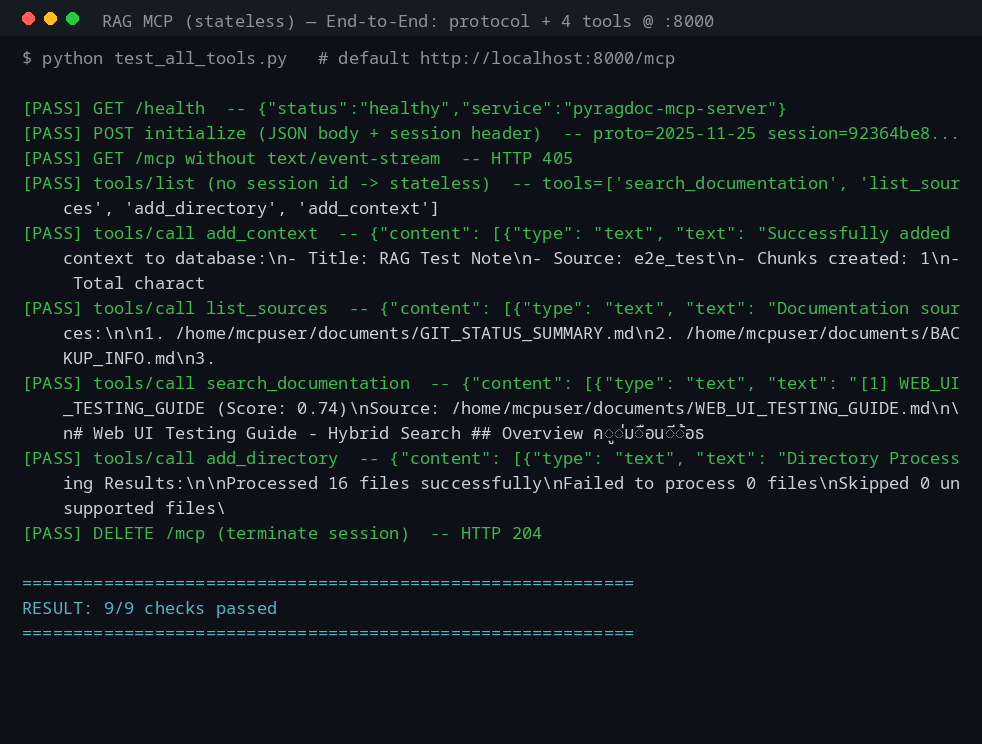
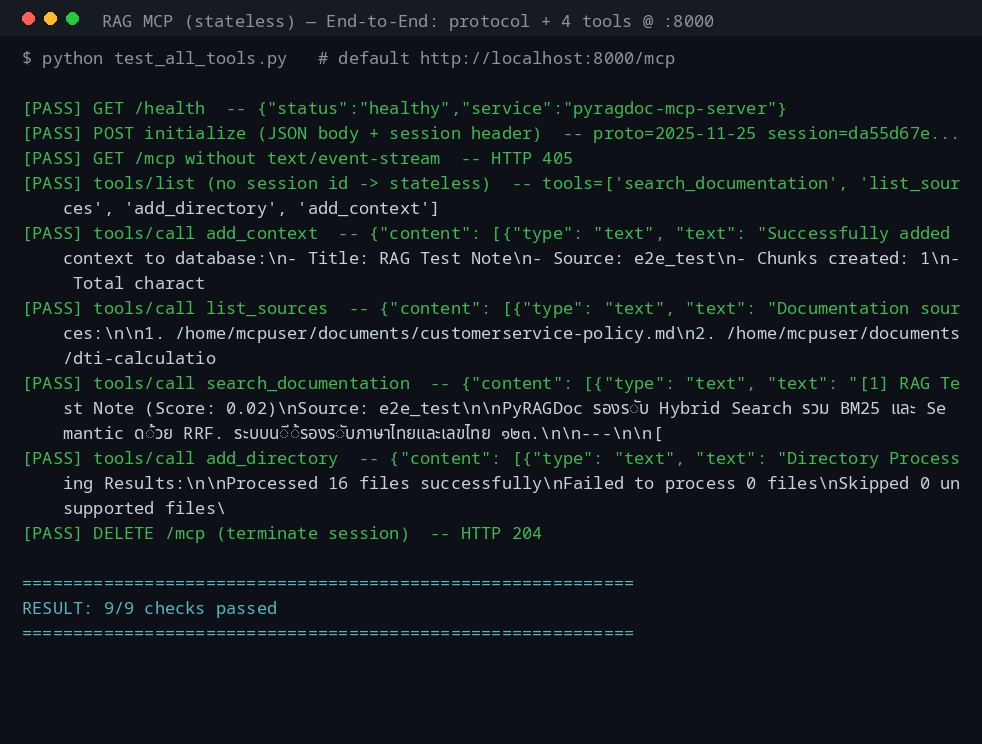
feat(streamablehttp): wire hybrid search (BM25 + Semantic + RRF) at startup
Port the hybrid-search init from v3 main.py (STDIO) into this Streamable HTTP
main.py. Previously initialize_services() was called with only 2 args, so
SearchOrchestrator was None and every mode=hybrid request silently fell back to
semantic-only (matching v3 main_streamable.py behavior).

Now startup constructs ThaiTokenizer + BM25Retriever + RRFCombiner +
SearchOrchestrator(default_mode=hybrid) and builds the BM25 index from existing
Qdrant docs. Verified via logs: BM25 indexed 903 docs at startup; a hybrid query
logs 'BM25 search returned 6 ... Hybrid search returned 3 (BM25: 6, Semantic: 6)'
proving both dense and sparse run and fuse via RRF. e2e suite still 9/9.

Added test_captures/05_hybrid_dense_sparse.png as proof.

diff --git a/rag-mcp-server-streamablehttp/main.py b/rag-mcp-server-streamablehttp/main.py
@@ -84,12 +84,116 @@ async def initialize_rag_services():
         storage_service.vector_size = vector_size
         
         await storage_service.initialize()
-        initialize_services(embedding_service, storage_service)
+        
+        # NEW: Initialize hybrid search components
+        logger.info("Initializing hybrid search components...")
+        from pyragdoc.utils.thai_tokenizer import ThaiTokenizer
+        from pyragdoc.core.bm25 import BM25Retriever
+        from pyragdoc.core.rrf import RRFCombiner
+        from pyragdoc.core.search import SearchOrchestrator
+        
+        # Create Thai tokenizer
+        thai_tokenizer = ThaiTokenizer()
+        
+        # Create BM25 retriever
+        bm25_retriever = BM25Retriever(thai_tokenizer)
+        
+        # Create RRF combiner
+        rrf_combiner = RRFCombiner(k=60)
+        
+        # Create search orchestrator
+        search_orchestrator = SearchOrchestrator(
+            bm25_retriever=bm25_retriever,
+            storage_service=storage_service,
+            embedding_service=embedding_service,
+            rrf_combiner=rrf_combiner,
+            default_mode="hybrid"
+        )
+        
+        # Build BM25 index from existing Qdrant documents
+        await build_bm25_index(bm25_retriever, storage_service)
+        
+        # Initialize app services
+        initialize_services(embedding_service, storage_service, search_orchestrator)
         
         logger.info("RAG services initialized successfully")
     except Exception as e:
         logger.error(f"Failed to initialize services: {e}")
         raise
+
+
+async def build_bm25_index(bm25_retriever, storage_service):
+    """Build BM25 index from existing Qdrant documents with pagination"""
+    try:
+        logger.info("Building BM25 index from existing documents...")
+        
+        from pyragdoc.models.documents import DocumentChunk, DocumentMetadata
+        import datetime
+        
+        all_chunks = []
+        offset = None
+        batch_size = 1000
+        total_processed = 0
+        
+        # Paginate through all documents
+        while True:
+            # Scroll with offset for pagination
+            scroll_result = await asyncio.to_thread(
+                storage_service.client.scroll,
+                collection_name=storage_service.collection_name,
+                limit=batch_size,
+                offset=offset,
+                with_payload=True,
+                with_vectors=False
+            )
+            
+            points, next_offset = scroll_result
+            
+            if not points:
+                break
+            
+            # Convert points to DocumentChunk objects
+            for point in points:
+                payload = point.payload
+                
+                # Extract metadata
+                metadata_dict = payload.get("metadata", {})
+                metadata = DocumentMetadata(**metadata_dict)
+                
+                # Extract text and timestamp
+                text = payload.get("text", "")
+                timestamp_str = payload.get("timestamp")
+                timestamp = datetime.datetime.fromisoformat(timestamp_str) if timestamp_str else datetime.datetime.now()
+                
+                # Create DocumentChunk
+                chunk = DocumentChunk(
+                    text=text,
+                    metadata=metadata,
+                    id=str(point.id),
+                    timestamp=timestamp
+                )
+                all_chunks.append(chunk)
+            
+            total_processed += len(points)
+            logger.info(f"Loaded {total_processed} documents from Qdrant...")
+            
+            # Check if there are more documents
+            if next_offset is None:
+                break
+            
+            offset = next_offset
+        
+        # Index all documents in BM25
+        if all_chunks:
+            logger.info(f"Building BM25 index for {len(all_chunks)} documents...")
+            await bm25_retriever.index_documents(all_chunks)
+            logger.info(f"✅ BM25 index built successfully with {len(all_chunks)} documents")
+        else:
+            logger.info("No documents to index in BM25")
+            
+    except Exception as e:
+        logger.error(f"Failed to build BM25 index: {e}", exc_info=True)
+        logger.warning("⚠️  Continuing without BM25 index - hybrid search will fall back to semantic only")
 
 @app.get("/health")
 async def health_check():